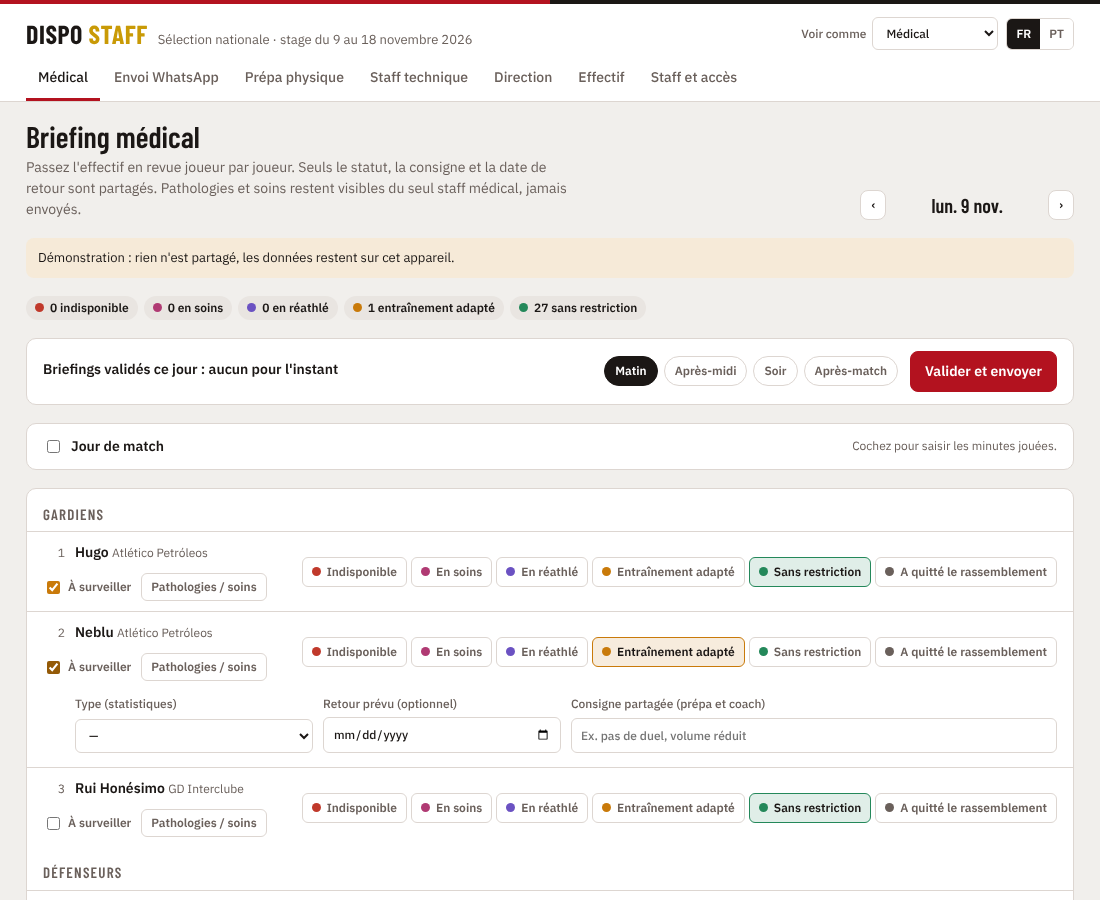
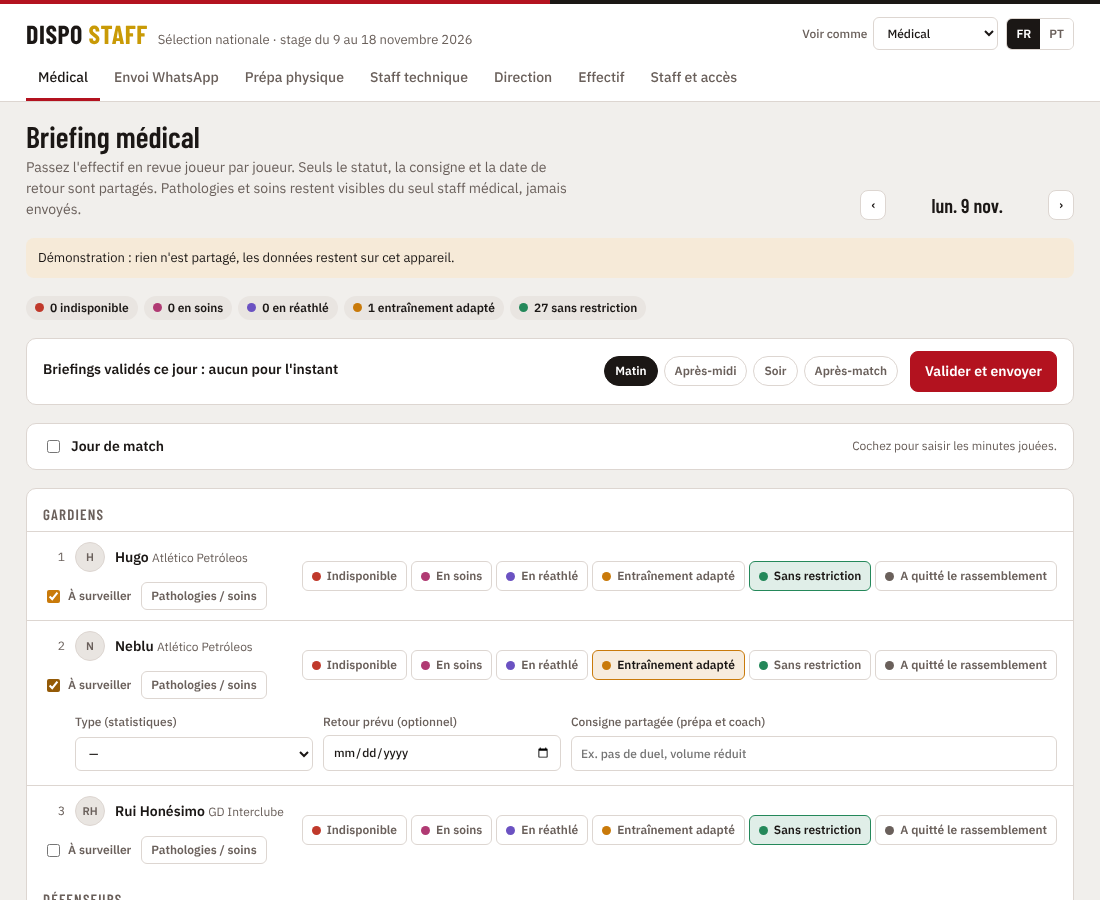
Kinés : « Valider ma saisie » ; « Valider et envoyer » et Staff réservés à ceux qui peuvent envoyer
Claude-Session: https://claude.ai/code/session_01PhXpucNRHbhxxgfYm9pj6Q

diff --git a/app.js b/app.js
@@ -15,7 +15,7 @@ fr:{sub:'Sélection nationale · stage du 9 au 18 novembre 2026',
  carry:'Statuts repris du jour précédent. Modifiez ce qui a changé.',fresh:'Premier briefing : tout l\'effectif démarre sans restriction.',
  sendsToday:'Briefings validés ce jour',noneYet:'aucun pour l\'instant',
  nChanges:'{n} changement(s) depuis le dernier briefing validé.',noChange:'Aucun changement depuis le dernier briefing validé.',
- label:'Briefing',validate:'Valider et envoyer',validated:'Briefing validé',
+ label:'Briefing',validate:'Valider et envoyer',validateMine:'Valider ma saisie',mineOk:'Saisie validée',checks:'Saisies validées',canSend:'Valide et envoie',validated:'Briefing validé',
  matchDay:'Jour de match',opp:'Adversaire',played:'{n} joueur(s) ont joué',minHint:'Cochez pour saisir les minutes jouées.',min:'Min.',
  type:'Type (statistiques)',ret:'Retour prévu (optionnel)',cons:'Consigne partagée (prépa et coach)',consPh:'Ex. pas de duel, volume réduit',
  lastPrepa:'Séance prépa',pathBtn:'Pathologies / soins',chr:'Pathologie chronique',chrPh:'Ex. tendinopathie rotulienne G',aig:'Pathologie aiguë',aigPh:'Ex. contusion cuisse D',aigd:'Apparue le',care:'Prise en charge du jour',c_:'—',c_recup:'Récupération',c_soins:'Soins',careTx:'Soins réalisés',careTxPh:'Ex. drainage, cryo, strapping',medOnly:'Visible du médical uniquement',suivi:'Suivi soins / récupération',suiviL:'Joueurs avec une pathologie en cours ou une prise en charge aujourd\'hui.',since:'depuis le {d}',chrS:'chronique',leftOn:'Parti le {d}',
@@ -60,7 +60,7 @@ pt:{sub:'Seleção Nacional · estágio de 9 a 18 de novembro de 2026',
  carry:'Estados retomados do dia anterior. Altere o que mudou.',fresh:'Primeiro briefing: todo o plantel começa sem restrições.',
  sendsToday:'Briefings validados hoje',noneYet:'nenhum por enquanto',
  nChanges:'{n} alteração(ões) desde o último briefing validado.',noChange:'Nenhuma alteração desde o último briefing validado.',
- label:'Briefing',validate:'Validar e enviar',validated:'Briefing validado',
+ label:'Briefing',validate:'Validar e enviar',validateMine:'Validar o meu registo',mineOk:'Registo validado',checks:'Registos validados',canSend:'Valida e envia',validated:'Briefing validado',
  matchDay:'Dia de jogo',opp:'Adversário',played:'{n} jogador(es) jogaram',minHint:'Marque para registar os minutos jogados.',min:'Min.',
  type:'Tipo (estatísticas)',ret:'Regresso previsto (opcional)',cons:'Indicação partilhada (prep. física e treinador)',consPh:'Ex. sem duelos, volume reduzido',
  lastPrepa:'Sessão prep. física',pathBtn:'Patologias / tratamentos',chr:'Patologia crónica',chrPh:'Ex. tendinopatia rotuliana E',aig:'Patologia aguda',aigPh:'Ex. contusão coxa D',aigd:'Surgiu a',care:'Tratamento do dia',c_:'—',c_recup:'Recuperação',c_soins:'Tratamento',careTx:'Tratamentos realizados',careTxPh:'Ex. drenagem, crio, ligadura',medOnly:'Visível só para o médico',suivi:'Seguimento tratamentos / recuperação',suiviL:'Jogadores com patologia em curso ou tratamento hoje.',since:'desde {d}',chrS:'crónica',leftOn:'Saiu a {d}',
@@ -174,6 +174,12 @@ const Store={
     if(DEMO)return this.persistDemo();
     const {error}=await sb.rpc('draft_patch',{d:day,patch});if(error)throw error;
   },
+  async checkDraft(day){
+    const d=S.drafts[day]||(S.drafts[day]={day,players:{},match:{on:false,opp:''}});
+    if(DEMO){d.checks=[...(d.checks||[]),{by:S.me.name||'Démo',at:new Date().toISOString()}];return this.persistDemo()}
+    const {error}=await sb.rpc('draft_check',{d:day});if(error)throw error;
+    const {data}=await sb.from('drafts').select('*').eq('day',day).maybeSingle();if(data)S.drafts[day]=data;
+  },
   async addSend(row){
     if(DEMO){row.id=Date.now();S.sends.push(row);return this.persistDemo()}
     const {data,error}=await sb.from('sends').insert(row).select().single();if(error)throw error;S.sends.push(data);
@@ -249,6 +255,7 @@ function viewMedical(){
   const lab=LABEL||LABELS[Math.min(sends.length,2)];
   const played=Object.values(d.players).filter(x=>+x.m>0).length;
   const prepToday=S.prepa.filter(e=>e.day===DATE);
+  const checks=(S.drafts[DATE]&&S.drafts[DATE].checks)||[];
   const rows=POS.map(k=>{const ps=roster(DATE).filter(p=>p.poste===k);if(!ps.length)return '';
     return `<div class="group-title">${t(k)}</div>`+ps.map(p=>{
     const x=d.players[p.id]||blankP(), s=last&&last.snap[p.id], chg=last&&s&&(s.s!==x.s||s.c!==x.c||s.r!==x.r||!!s.w!==!!x.w);
@@ -276,9 +283,9 @@ function viewMedical(){
   <div class="tally">${['indispo','soins','reath','adapte','ok'].map(k=>pill(k,`${c[k]} ${t('s_'+k).toLowerCase()}`)).join('')}${c.parti?pill('parti',`${c.parti} ${t('s_parti').toLowerCase()}`):''}</div>
   <div class="banner${sends.length&&!ch.length?' ok':''}">
     <div style="display:grid;gap:4px;min-width:0"><b>${t('sendsToday')} : ${sends.length?sends.map(s=>`${sendLabel(s)} ${hmOf(s.at)}`).join(' · '):t('noneYet')}</b>
-      <span class="sync">${!d.exists&&!sends.length?(d.carried?t('carry'):t('fresh'))+' ':''}${last?(ch.length?t('nChanges',{n:ch.length}):t('noChange')):''}</span></div>
-    <div class="bar"><div class="chips" role="group" aria-label="${t('label')}">${LABELS.map(l=>`<button data-label="${l}" aria-pressed="${l===lab}">${t('l_'+l)}</button>`).join('')}</div>
-      <button class="btn primary" id="validate">${t('validate')}</button></div>
+      <span class="sync">${!d.exists&&!sends.length?(d.carried?t('carry'):t('fresh'))+' ':''}${last?(ch.length?t('nChanges',{n:ch.length}):t('noChange')):''}</span>${checks.length?`<span class="sync"><b>${t('checks')}</b> : ${checks.map(c=>`${esc(c.by||'?')} ${hmOf(c.at)}`).join(' · ')}</span>`:''}</div>
+    <div class="bar">${CAN_SEND()?`<div class="chips" role="group" aria-label="${t('label')}">${LABELS.map(l=>`<button data-label="${l}" aria-pressed="${l===lab}">${t('l_'+l)}</button>`).join('')}</div>`:''}
+      ${CAN_SEND()?`<button class="btn primary" id="validate">${t('validate')}</button>`:`<button class="btn primary" id="validateMine">${t('validateMine')}</button>`}</div>
   </div>
   <div class="banner"><label style="display:flex;gap:8px;align-items:center;font-weight:600"><input type="checkbox" id="matchOn" ${d.match?.on?'checked':''}> ${t('matchDay')}</label>${d.match?.on?`<div class="bar"><label class="f" style="min-width:200px">${t('opp')}<input type="text" id="opp" value="${esc(d.match.opp)}"></label><span class="sync">${t('played',{n:played})}</span></div>`:`<span class="sync">${t('minHint')}</span>`}</div>
   ${suivi.length?`<div class="banner suivi"><div style="display:grid;gap:6px;min-width:0"><b>${t('suivi')} (${suivi.length})</b><span class="sync">${t('suiviL')} ${t('medOnly')}.</span>
@@ -429,13 +436,13 @@ V.addEventListener('click',e=>{
 /* ---------- vue staff ---------- */
 function viewStaff(){
   const staff=[...S.staff].sort((a,b)=>ROLES.indexOf(a.role)-ROLES.indexOf(b.role)||String(a.name).localeCompare(b.name));
-  V.innerHTML=head(t('st_t'),t('st_l'),false)+`<div class="panel">${staff.map(x=>`<div class="ct" data-ct="${x.id}" style="grid-template-columns:minmax(0,1.1fr) minmax(0,1fr) minmax(0,1.4fr) minmax(0,1.1fr) 70px auto">
+  V.innerHTML=head(t('st_t'),t('st_l'),false)+`<div class="panel">${staff.map(x=>`<div class="ct" data-ct="${x.id}" style="grid-template-columns:minmax(0,1.1fr) minmax(0,1fr) minmax(0,1.4fr) minmax(0,1.1fr) 70px auto auto">
     <label class="f">${t('st_name')}<input type="text" id="sn-${x.id}" data-cf="name" value="${esc(x.name)}"></label>
     <label class="f">${t('st_role')}<select id="sr-${x.id}" data-cf="role">${ROLES.map(r=>`<option value="${r}"${r===x.role?' selected':''}>${t('r_'+r)}</option>`).join('')}</select></label>
     <label class="f">${t('st_email')}<input type="email" id="se-${x.id}" data-cf="email" value="${esc(x.email||'')}" autocomplete="off"></label>
     <label class="f">${t('st_phone')}<input type="tel" id="sp-${x.id}" data-cf="phone" inputmode="numeric" value="${esc(x.phone)}" placeholder="244…"></label>
     <label class="f">${t('st_lang')}<select id="sl-${x.id}" data-cf="lang"><option value="pt"${x.lang!=='fr'?' selected':''}>PT</option><option value="fr"${x.lang==='fr'?' selected':''}>FR</option></select></label>
-    <button class="btn small" data-del="${x.id}">${t('st_del')}</button></div>`).join('')||`<div class="empty">${t('noContacts')}</div>`}
+    ${x.role==='medical'&&'can_send' in x?`<label class="watch" style="align-self:center"><input type="checkbox" data-cs="1"${x.can_send?' checked':''}> ${t('canSend')}</label>`:''}<button class="btn small" data-del="${x.id}">${t('st_del')}</button></div>`).join('')||`<div class="empty">${t('noContacts')}</div>`}
   <div class="pad"><button class="btn" id="stAdd">${t('st_add')}</button></div></div>`;
 }
 
@@ -469,7 +476,9 @@ function viewLogin(msg){
 /* ---------- rendu ---------- */
 const VIEWS={medical:viewMedical,prepa:viewPrepa,coach:viewCoach,direction:viewDirection,wa:viewWA,staff:viewStaff,roster:viewRoster};
 const TL={medical:'tab_medical',prepa:'tab_prepa',coach:'tab_coach',direction:'tab_direction',wa:'tab_wa',staff:'tab_staff',roster:'tab_roster'};
-const curTab=()=>{const h=location.hash.slice(1),ok=TABS[S.me.role];return ok.includes(h)?h:ok[0]};
+const CAN_SEND=()=>DEMO||S.me?.can_send!==false;
+const myTabs=()=>TABS[S.me.role].filter(k=>CAN_SEND()||(k!=='wa'&&k!=='staff'));
+const curTab=()=>{const h=location.hash.slice(1),ok=myTabs();return ok.includes(h)?h:ok[0]};
 let pending=false;
 function render(force){
   document.documentElement.lang=LANG;
@@ -484,7 +493,7 @@ function render(force){
   who.innerHTML=DEMO?`<label class="f" style="display:flex;align-items:center;gap:6px">${t('demoRole')}<select id="demoRole" style="width:auto">${ROLES.map(r=>`<option value="${r}"${r===S.me.role?' selected':''}>${t('r_'+r)}</option>`).join('')}</select></label>`
     :`<span class="sync">${esc(S.me.name||'')} · ${t('r_'+S.me.role)}</span> <button class="btn small" id="signout">${t('signout')}</button>`;
   const v=curTab();
-  document.getElementById('nav').innerHTML=TABS[S.me.role].map(k=>`<a href="#${k}"${k===v?' aria-current="page"':''}>${t(TL[k])}</a>`).join('');
+  document.getElementById('nav').innerHTML=myTabs().map(k=>`<a href="#${k}"${k===v?' aria-current="page"':''}>${t(TL[k])}</a>`).join('');
   const y=scrollY;VIEWS[v]();scrollTo(0,y);
 }
 V.addEventListener('focusout',()=>setTimeout(()=>{if(pending)render()},0));
@@ -506,6 +515,9 @@ V.addEventListener('click',async e=>{
     if(x.s==='parti'&&p.left_on!==DATE)Store.savePlayer({...p,left_on:DATE}).catch(fail);
     if(x.s!=='parti'&&p.left_on)Store.savePlayer({...p,left_on:null}).catch(fail);
     setPlayer(id,x);return render(true)}
+  if(el.id==='validateMine'){el.disabled=true;
+    try{if(PEND.size)await Promise.all([...PEND]);const d=draft();if(!d.exists)await Store.patchDraft(DATE,{players:d.players,match:d.match});await Store.checkDraft(DATE);toast(t('mineOk'))}catch(err){fail(err)}
+    return render(true)}
   if(el.id==='validate'){
     if(PEND.size){el.disabled=true;await Promise.all([...PEND]);el.disabled=false}
     const d=draft(), sends=sendsOf(DATE), lab=LABEL||LABELS[Math.min(sends.length,2)];
@@ -541,6 +553,7 @@ V.addEventListener('change',e=>{
   if(el.dataset.f==='t'||el.dataset.f==='r'){const id=el.closest('[data-id]').dataset.id,x={...pl(id)};x[el.dataset.f]=el.value;setPlayer(id,x);return}
   if(el.dataset.photo&&el.files[0]){const p={...byId(el.dataset.photo)};shrink(el.files[0]).then(u=>{p.photo=u;return Store.savePlayer(p)}).then(()=>{toast(t('photoOk'));render(true)}).catch(()=>toast(t('photoKo')));return}
   if(el.dataset.pf){const k=el.closest('[data-pl]').dataset.pl,p={...byId(k)};let v=el.value.trim();if(el.dataset.pf==='num')v=v?+v:null;if(el.dataset.pf==='left_on'||el.dataset.pf==='added_on')v=v||null;if(el.dataset.pf==='added_on'&&!v)return;if(el.dataset.pf==='nom'&&!v)return;p[el.dataset.pf]=v;Store.savePlayer(p).catch(fail);return}
+  if(el.dataset.cs){const k=el.closest('[data-ct]').dataset.ct,x=S.staff.find(y=>y.id===k);x.can_send=el.checked;Store.saveStaff({...x}).catch(fail);return}
   if(el.dataset.cf==='role'||el.dataset.cf==='lang'){const k=el.closest('[data-ct]').dataset.ct,x=S.staff.find(y=>y.id===k);x[el.dataset.cf]=el.value;Store.saveStaff({...x}).catch(fail)}
 });
 V.addEventListener('input',e=>{
